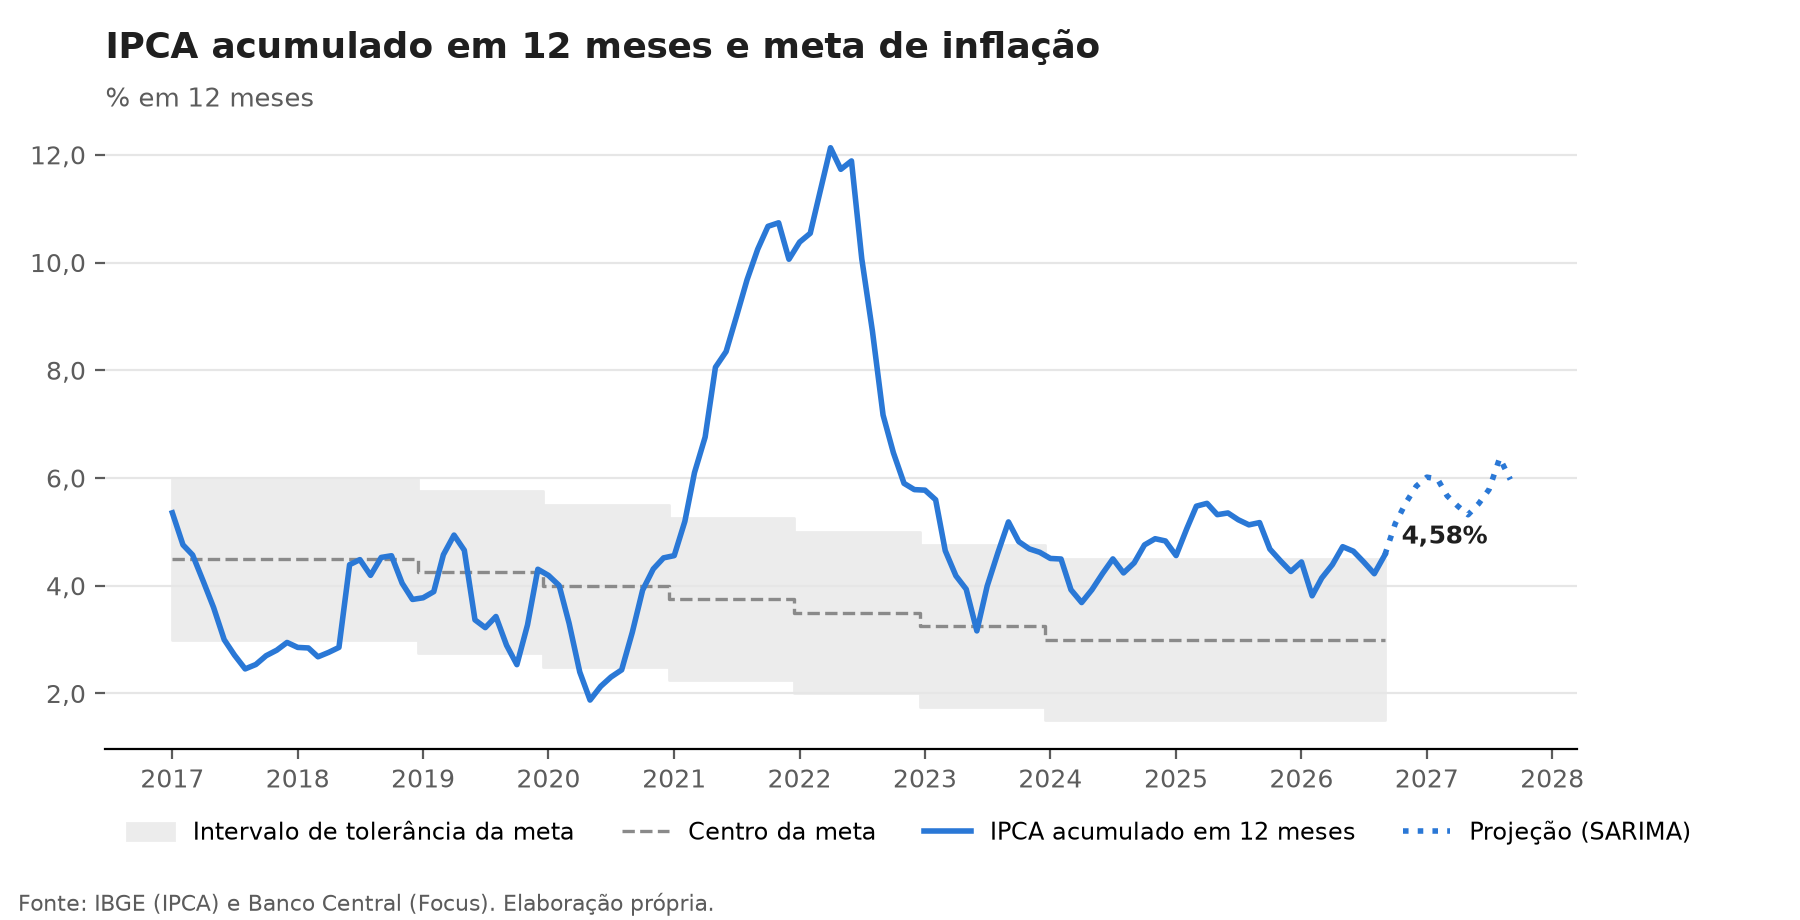
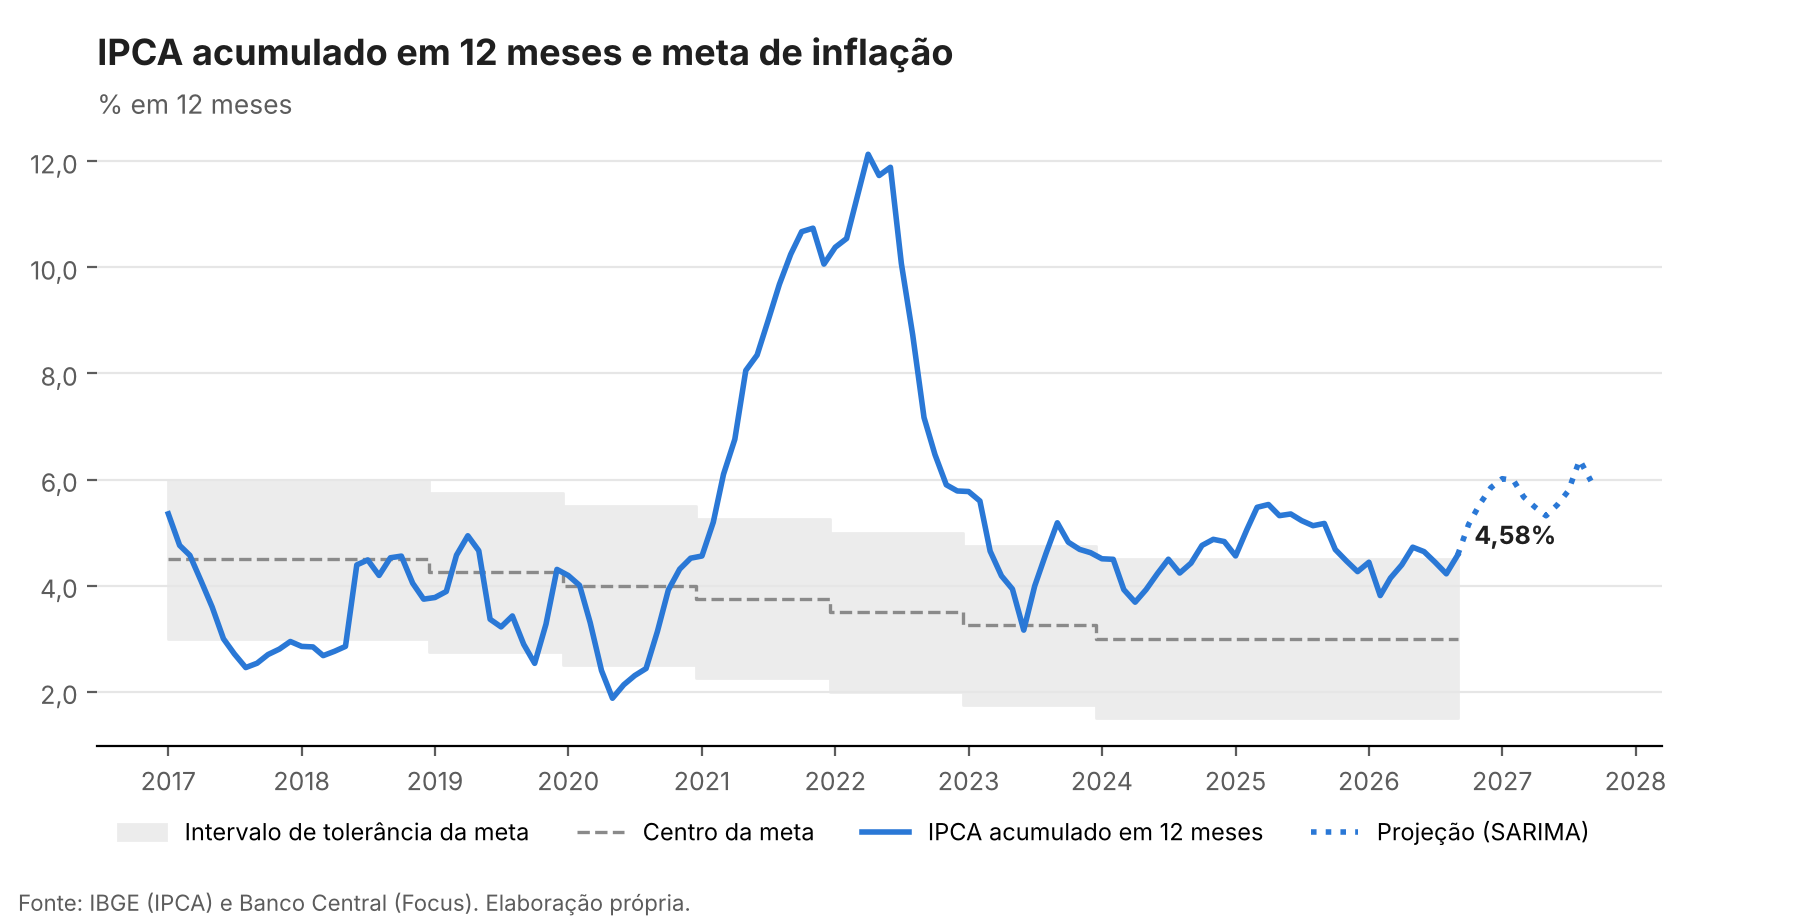
Nota: leitura do IPCA de setembro de 2026

diff --git a/nota/ultima_nota.md b/nota/ultima_nota.md
@@ -11,15 +11,15 @@
 
 ## Leitura
 
-*Leitura referente ao IPCA de agosto de 2026.*
+*Leitura referente ao IPCA de setembro de 2026.*
 
-A deflação de 0,32% em agosto veio de preços administrados e de alimentos, e não de uma desaceleração mais ampla. Habitação foi o principal vetor, com contribuição de −0,29 p.p.: a energia elétrica caiu 7,63% com o Bônus de Itaipu creditado nas faturas do mês. Transportes contribuiu com −0,17 p.p., com a queda das passagens aéreas e dos combustíveis, e Alimentação e bebidas com −0,07 p.p., com a queda dos alimentos in natura. No sentido contrário, Despesas pessoais somou +0,13 p.p., quase tudo pelo reajuste do cigarro.
+O IPCA subiu 0,82% em setembro, puxado por três grupos que somaram 0,71 p.p., quase 90% do índice. Habitação liderou, com 0,35 p.p.: a energia elétrica subiu 7,98% com o fim do Bônus de Itaipu e foi o maior impacto individual do mês. Alimentação e bebidas contribuiu com 0,18 p.p., com a alimentação no domicílio em alta de 0,96%, concentrada em tomate, batata, cebola e arroz, enquanto o frango caiu. Transportes somou outros 0,18 p.p., com passagens aéreas (9,66%) e combustíveis (1,41%, com etanol a 3,16% e gasolina a 1,21%).
 
-O resultado ficou abaixo da mediana do Focus coletada no meio do mês, e o acumulado em 12 meses recuou para 4,22%, consolidando o retorno ao intervalo de tolerância da meta depois de ter ficado acima do teto de 4,5% em junho. A melhora, porém, depende em boa parte de um fator que não se repete: o bônus é um crédito pontual, e a tarifa de energia volta ao nível anterior nas faturas seguintes.
+Fora desses três grupos, a alta foi moderada: os outros seis somaram 0,11 p.p., com Saúde e cuidados pessoais (0,08%) e Educação (0,04%) praticamente estáveis. O resultado do mês é, portanto, concentrado em preços administrados, alimentos in natura e itens voláteis, e não um avanço disseminado.
 
-Essa é a principal razão da distância entre as projeções para setembro: o SARIMA espera 0,09% e o Focus, 0,56%. O modelo é univariado e lê a deflação de agosto como informação sobre a tendência; o mercado incorpora a reversão do bônus. O caso ilustra o limite do modelo puramente estatístico em meses dominados por preços administrados e reforça o próximo passo do projeto: incluir variáveis de fora da série, como o IPCA-15 e o calendário de reajustes.
+Com o resultado, o acumulado em 12 meses foi a 4,58%, acima do teto de 4,5%, e o acumulado no ano a 3,95%. O índice superou em 0,32 p.p. a mediana do Focus coletada no meio do mês (0,50%). Para outubro, o Focus espera 0,32%, e o SARIMA, 0,64%: o modelo univariado tende a projetar a alta de setembro para frente, sem distinguir o choque de energia da tendência, o que reforça o próximo passo do projeto, incluir o IPCA-15 e o calendário de reajustes.
 
-*Fonte dos itens: IBGE, divulgação do IPCA de agosto de 2026.*
+*Fonte dos itens: IBGE, divulgação do IPCA de setembro de 2026.*
 
 ## Contribuições por grupo
 

diff --git a/nota/leitura.md b/nota/leitura.md
@@ -1,9 +1,9 @@
-*Leitura referente ao IPCA de agosto de 2026.*
+*Leitura referente ao IPCA de setembro de 2026.*
 
-A deflação de 0,32% em agosto veio de preços administrados e de alimentos, e não de uma desaceleração mais ampla. Habitação foi o principal vetor, com contribuição de −0,29 p.p.: a energia elétrica caiu 7,63% com o Bônus de Itaipu creditado nas faturas do mês. Transportes contribuiu com −0,17 p.p., com a queda das passagens aéreas e dos combustíveis, e Alimentação e bebidas com −0,07 p.p., com a queda dos alimentos in natura. No sentido contrário, Despesas pessoais somou +0,13 p.p., quase tudo pelo reajuste do cigarro.
+O IPCA subiu 0,82% em setembro, puxado por três grupos que somaram 0,71 p.p., quase 90% do índice. Habitação liderou, com 0,35 p.p.: a energia elétrica subiu 7,98% com o fim do Bônus de Itaipu e foi o maior impacto individual do mês. Alimentação e bebidas contribuiu com 0,18 p.p., com a alimentação no domicílio em alta de 0,96%, concentrada em tomate, batata, cebola e arroz, enquanto o frango caiu. Transportes somou outros 0,18 p.p., com passagens aéreas (9,66%) e combustíveis (1,41%, com etanol a 3,16% e gasolina a 1,21%).
 
-O resultado ficou abaixo da mediana do Focus coletada no meio do mês, e o acumulado em 12 meses recuou para 4,22%, consolidando o retorno ao intervalo de tolerância da meta depois de ter ficado acima do teto de 4,5% em junho. A melhora, porém, depende em boa parte de um fator que não se repete: o bônus é um crédito pontual, e a tarifa de energia volta ao nível anterior nas faturas seguintes.
+Fora desses três grupos, a alta foi moderada: os outros seis somaram 0,11 p.p., com Saúde e cuidados pessoais (0,08%) e Educação (0,04%) praticamente estáveis. O resultado do mês é, portanto, concentrado em preços administrados, alimentos in natura e itens voláteis, e não um avanço disseminado.
 
-Essa é a principal razão da distância entre as projeções para setembro: o SARIMA espera 0,09% e o Focus, 0,56%. O modelo é univariado e lê a deflação de agosto como informação sobre a tendência; o mercado incorpora a reversão do bônus. O caso ilustra o limite do modelo puramente estatístico em meses dominados por preços administrados e reforça o próximo passo do projeto: incluir variáveis de fora da série, como o IPCA-15 e o calendário de reajustes.
+Com o resultado, o acumulado em 12 meses foi a 4,58%, acima do teto de 4,5%, e o acumulado no ano a 3,95%. O índice superou em 0,32 p.p. a mediana do Focus coletada no meio do mês (0,50%). Para outubro, o Focus espera 0,32%, e o SARIMA, 0,64%: o modelo univariado tende a projetar a alta de setembro para frente, sem distinguir o choque de energia da tendência, o que reforça o próximo passo do projeto, incluir o IPCA-15 e o calendário de reajustes.
 
-*Fonte dos itens: IBGE, divulgação do IPCA de agosto de 2026.*
+*Fonte dos itens: IBGE, divulgação do IPCA de setembro de 2026.*
